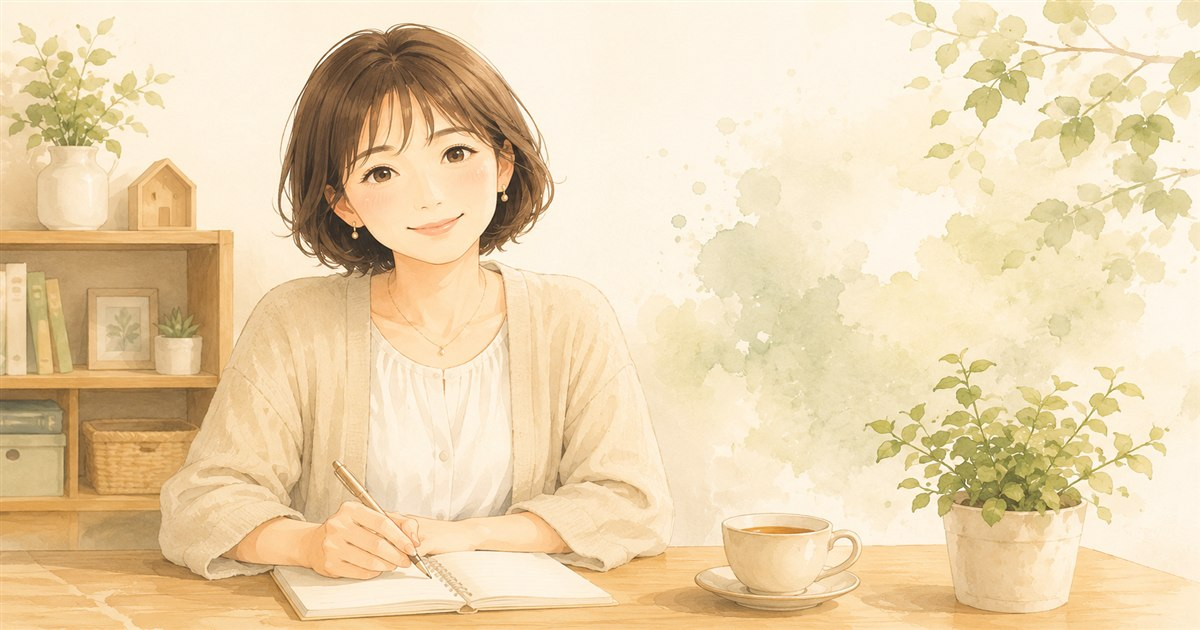
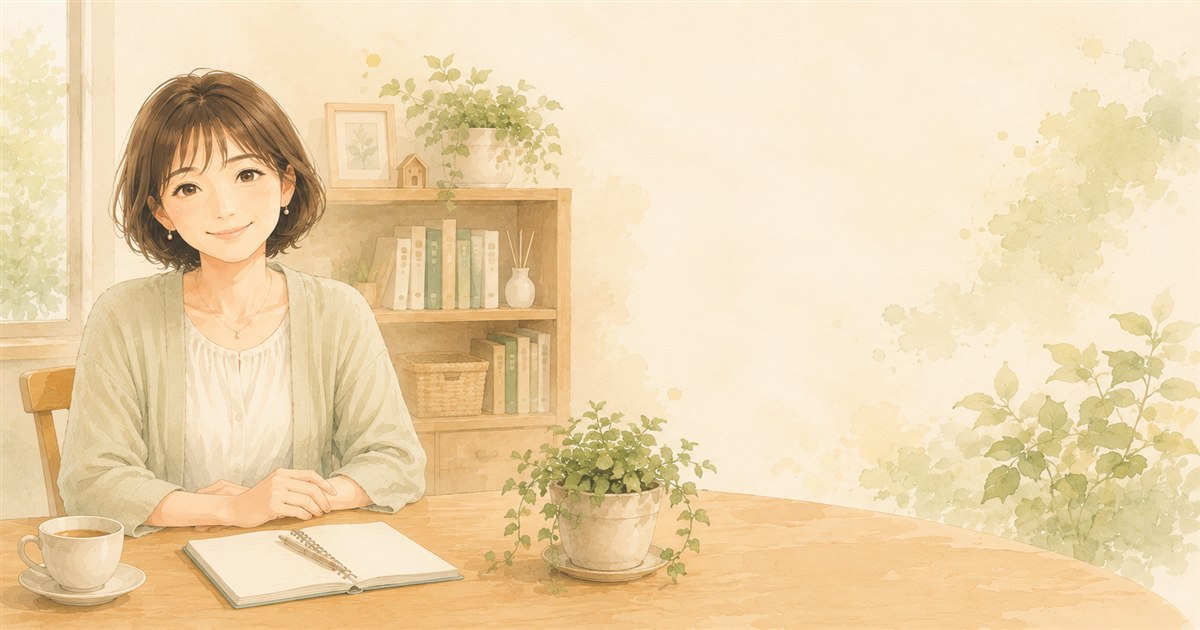
update: 自己紹介記事の画像刷新・文章改善
- hajimemashite.jpg: 構図改善版（人物左寄り・水彩アニメ調）に差し替え
- hajimemashite.md: 長文を読みやすく2文に分割（カオによる校正）

diff --git a/content/posts/hajimemashite.md b/content/posts/hajimemashite.md
@@ -138,7 +138,9 @@ cover:
 
 専門家じゃないし、お金持ちでもない。
 
-でも「同じような状況の誰かに、私だけじゃないと思ってもらえたら」という気持ちで書いています。
+でも、書き続ける理由はひとつだけ。
+
+同じような状況の誰かに「私だけじゃない」と思ってもらえたら、それだけで十分です。
 
 ---
 